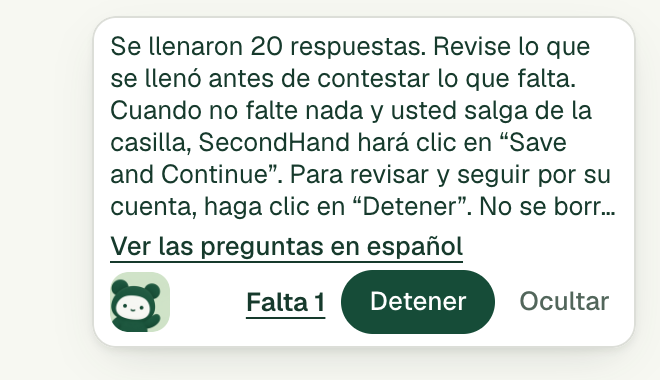
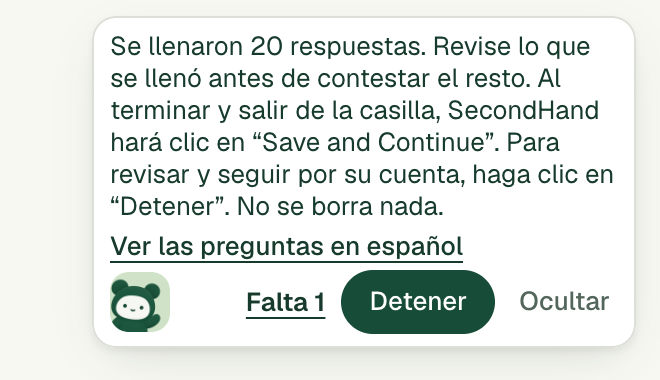
fix: fit the Spanish and French waiting line beside the language offer
On Iowa's English page the card also offers the questions in the reader's
language, which leaves its line one row less, and the new Spanish and
French lines Autofill waits with were cut at the end. Both are shorter
now. The extension smoke checks that line, whole, in every language.

diff --git a/extension/strings.js b/extension/strings.js
@@ -1028,7 +1028,7 @@
     'iowa.startDetailsReason': 'SecondHand continúa solo cuando las preguntas compatibles están completas y esta página no tiene errores ni preguntas no compatibles.',
     'iowa.clickContinue': 'Haga clic en “Continue” en el formulario de Iowa.',
     'iowa.programIntentReason': 'Responda si alguien está solicitando y luego escriba los caracteres que muestra la prueba de seguridad de Iowa.',
-    'iowa.missingAnswers': 'Revise lo que se llenó antes de contestar lo que falta. Cuando no falte nada y usted salga de la casilla, SecondHand hará clic en “Save and Continue”.',
+    'iowa.missingAnswers': 'Revise lo que se llenó antes de contestar el resto. Al terminar y salir de la casilla, SecondHand hará clic en “Save and Continue”.',
     'iowa.canSaveContinue': 'SecondHand puede guardar esta página y continuar. Revise cada respuesta antes del envío final.',
     'iowa.remainingQuestions': 'Conteste las preguntas restantes y corrija los errores en el formulario de Iowa.',
     'iowa.requiredFields': 'Complete los campos obligatorios del solicitante en el formulario de Iowa.',
@@ -2593,7 +2593,7 @@
     'iowa.startDetailsReason': 'SecondHand continue seulement lorsque les questions prises en charge sont complètes et que cette page ne présente aucune erreur ni question non prise en charge.',
     'iowa.clickContinue': 'Cliquez sur « Continue » dans le formulaire de l’Iowa.',
     'iowa.programIntentReason': 'Répondez si quelqu’un fait une demande, puis tapez les caractères affichés dans le contrôle de sécurité de l’Iowa.',
-    'iowa.missingAnswers': 'Vérifiez ce qui a été rempli avant de répondre à ce qui reste. Quand plus rien ne manque et que vous quittez la case, SecondHand clique sur « Save and Continue ».',
+    'iowa.missingAnswers': 'Vérifiez ce qui est rempli avant de répondre au reste. Une fois tout rempli et la case quittée, SecondHand clique sur « Save and Continue ».',
     'iowa.canSaveContinue': 'SecondHand peut enregistrer cette page et continuer. Vérifiez chaque réponse avant l’envoi final.',
     'iowa.remainingQuestions': 'Répondez aux questions restantes et corrigez les erreurs dans le formulaire de l’Iowa.',
     'iowa.requiredFields': 'Remplissez les champs obligatoires du demandeur dans le formulaire de l’Iowa.',
